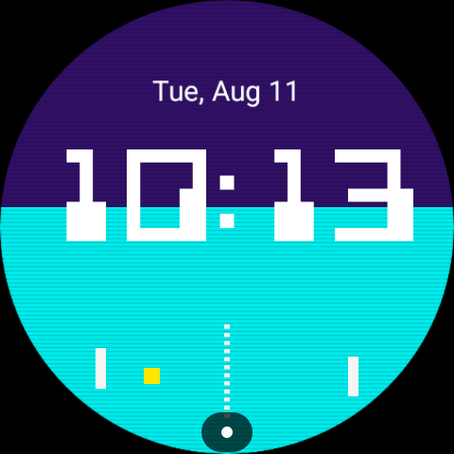
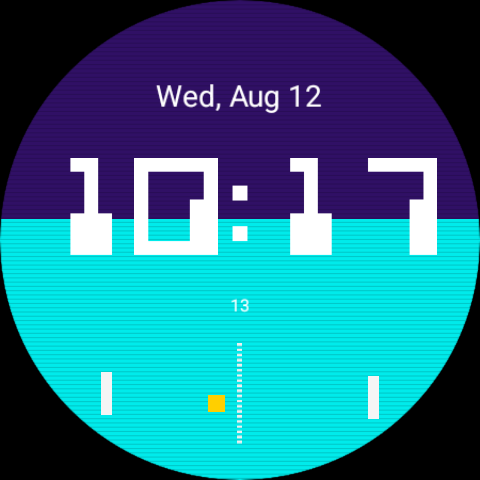
Refresh README screenshots and revert digit size, hide ambient seconds
- Regenerate all README doc images to reflect current state; add
  Scoreboard layout and the two new dark themes (Steel Shadow,
  Blackout) which weren't documented before.
- Revert the Scoreboard minute-digit size back to 48x36 — the larger
  60x45 size no longer matched the arena element proportions.
- Hide the seconds indicator entirely in ambient mode instead of
  showing a frozen, stale value.

diff --git a/README.md b/README.md
@@ -7,13 +7,22 @@ A Wear OS watch face built entirely with the [Watch Face Format](https://develop
 ## Features
 
 - **Retro digit font** — a blocky pixel-grid font (0-9 and colon) transcribed from a classic Atari-style reference, always rendered in fixed white for contrast against any theme
-- **15 selectable color themes** — the original purple/orange look plus 14 more, each a two-tone split background you can pick from the watch face's on-device Edit menu (long-press the face, tap Edit)
-- **Day and date** — shown at the top (e.g. "Mon, Aug 10")
+- **17 selectable color themes** — the original purple/orange look plus 16 more (including two darker, OLED-friendly options), each a two-tone split background you can pick from the watch face's on-device Edit menu (long-press the face, tap Edit)
+- **Two layouts** — **Classic** (`hh:mm` time with the day/date above) and **Scoreboard** (a large centered hour with the minute shown as two big scoreboard-style digits, plus a curved date along the top bezel), switchable from the Edit menu
+- **Optional seconds indicator** — a small always-updating seconds readout, toggleable independently in either layout; hidden automatically in ambient mode rather than showing a frozen value
+- **Day and date** — shown at the top in Classic, curved along the bezel in Scoreboard
 - **A living game of Pong** — two paddles and a ball bounce around a dashed center court in the lower half of the face; the paddles move independently, and the ball's motion is smoothed rather than jumping once a second
+- **Low-battery warning** — the ball tints red once the device's battery drops below 20%, in either layout
 - **Ambient mode** — the face stays fully visible and simply dims when the watch goes ambient, with the Pong game frozen in place until you wake the screen again
 - **Faint CRT scanline overlay** for a bit of arcade-cabinet texture
 
 Every pixel-art asset is generated from scratch by [`watchface/scripts/generate_pixel_assets.py`](watchface/scripts/generate_pixel_assets.py) — nothing is traced or copied from any existing game.
+
+### Layouts
+
+| Classic | Scoreboard |
+|:---:|:---:|
+| ![Classic layout](docs/screenshot.png) | ![Scoreboard layout](docs/screenshot_scoreboard.png) |
 
 ### Color themes
 
@@ -24,6 +33,10 @@ Every pixel-art asset is generated from scratch by [`watchface/scripts/generate_
 | Cosmic Cyan | Golden Marsh |
 |:---:|:---:|
 | ![Cosmic Cyan](docs/theme_cosmic_cyan.png) | ![Golden Marsh](docs/theme_golden_marsh.png) |
+
+| Steel Shadow | Blackout |
+|:---:|:---:|
+| ![Steel Shadow](docs/theme_steel_shadow.png) | ![Blackout](docs/theme_blackout.png) |
 
 ...plus 10 more (War Room, Radar Yellow, Neon Magenta, Copper Cyan, Jungle Vine, Emerald Grid, Molten Amber, Venom Pink, Desert Amber, Signal Green) — pick your favorite from the watch face's Edit menu.
 
